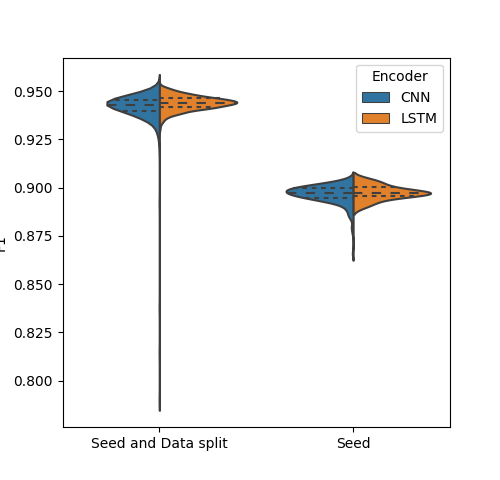
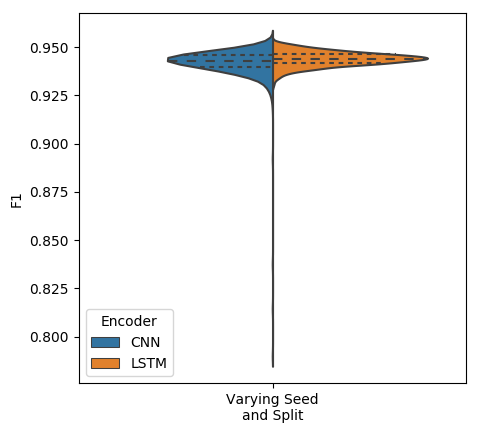
Removed official splits

Changed region(s): [[0.0, 0.06, 0.9061, 0.9908], [0.9645, 0.03, 0.9937, 0.06], [0.1461, 0.03, 0.1754, 0.06]]

diff --git a/violin_plot_of_ner_scores.py b/violin_plot_of_ner_scores.py
@@ -37,14 +37,10 @@ def parse_path(path_string: str) -> Path:
 
 if __name__ == '__main__':
     parser = argparse.ArgumentParser()
-    seeds_result_help = "File path to results where the models were trained "\
-                        "on different random seeds"
     data_seeds_result_help = "File path to results where the models were "\
                              "trained on different data splits and random seeds"
     no_data_splits_help = "Number of extra plots showing the affect of "\
                           "different random seeds but on the same dataset."
-    parser.add_argument("seeds_result_fp", help=seeds_result_help, 
-                        type=parse_path)
     parser.add_argument("data_seeds_result_fp", help=data_seeds_result_help,
                         type=parse_path)
     parser.add_argument("plot_fp", help="File path to the plot",
@@ -59,8 +55,7 @@ if __name__ == '__main__':
     args = parser.parse_args()
 
     encoders = ["CNN", "LSTM"]
-    training_methods_and_results = [('Seed and Data split', args.data_seeds_result_fp),
-                                    ('Seed', args.seeds_result_fp)]
+    training_methods_and_results = [('Varying Seed and Split', args.data_seeds_result_fp)]
     encoder_and_folder = product(encoders, training_methods_and_results)
 
     f1_scores = []
@@ -70,7 +65,7 @@ if __name__ == '__main__':
         train_method_name, result_fp = train_method_result
         with result_fp.open('r') as result_file:
             results = json.load(result_file)
-            if train_method_name == 'Seed and Data split':
+            if train_method_name == 'Varying Seed and Split':
                 f1_values = []
                 for result in results:
                     f1_values.extend(get_encoder_results(result, encoder, 
@@ -85,8 +80,8 @@ if __name__ == '__main__':
             for f1_value in f1_values:
                 f1_scores.append(f1_value)
                 encoder_names.append(encoder)
-                if train_method_name == 'Seed and Data split':
-                    training_method_names.append('Seed and\nData split')
+                if train_method_name == 'Varying Seed and Split':
+                    training_method_names.append('Varying Seed\nand Split')
                 else:
                     training_method_names.append(train_method_name)
             print(f'Number of results: {len(f1_values)} for encoder: {encoder}'
@@ -102,7 +97,7 @@ if __name__ == '__main__':
                     for f1_value in f1_values:
                         f1_scores.append(f1_value)
                         encoder_names.append(encoder)
-                        training_method_names.append(f'Fixed data\nsplit {i}')
+                        training_method_names.append(f'Varying Seed\nfixed split {i}')
                 
     all_data = pd.DataFrame({'F1': f1_scores, 'Encoder': encoder_names, 
                              'Training Method': training_method_names})
@@ -111,7 +106,7 @@ if __name__ == '__main__':
     plot_fp.touch()
 
     if args.no_data_splits > 0:
-        large_data_plot_names = ['Seed and\nData split', 'Seed']
+        large_data_plot_names = ['Varying Seed\nand Split']
         
         large_data = all_data[all_data['Training Method'].isin(large_data_plot_names)]
         small_data = all_data[~all_data['Training Method'].isin(large_data_plot_names)]
@@ -124,14 +119,15 @@ if __name__ == '__main__':
         axs[0].get_legend().remove()
         axs[1].set_xlabel("")
         axs[1].set_ylabel("")
-        fig.savefig(str(plot_fp.resolve()))
+        fig.set_figwidth(8.2)
+        fig.savefig(str(plot_fp.resolve()), bbox_inches='tight')
     else:
         ax = sns.violinplot(y="F1", x="Training Method", hue="Encoder",
                             data=all_data, inner="quartiles", split=True)
         ax.set_xlabel("")
         fig = ax.figure
         fig.set_figwidth(5)
-        fig.savefig(str(plot_fp.resolve()))
+        fig.savefig(str(plot_fp.resolve()), bbox_inches='tight')
 
 
 

diff --git a/README.md b/README.md
@@ -7,19 +7,6 @@ NOTE: This has only been tested on Ubuntu 16.04
 
 Need to download the CoNLL 2003 NER dataset and store it within `./original_dataset` where the train, dev, and test splits are at the following respective paths `./original_dataset/train.txt`, `./original_dataset/dev.txt`, `./original_dataset/test.txt`. NOTE: Ensure that all of the splits have been pre-processed so that they are in BIO format and not IOB format.
 
-## Results of the NER models on the normal train, validation, and test splits
-To run the NER models 250 times each for the CNN and LSTM models as done in the paper where the only difference between each run is a different random seed run:
-
-`./just_random_seeds.sh ./original_dataset PATH_TO_GLOVE_FILE 250 PATH_TO_TEMP_DIR PATH_TO_PYTHON_RUNNABLE`
-
-`PATH_TO_GLOVE_FILE` -- This is the path to the 100 dimension Glove file which can be downloaded from [here](http://nlp.stanford.edu/data/glove.6B.zip)
-`PATH_TO_TEMP_DIR` -- Can be any folder but most likely a folder from `/tmp` directory
-`PATH_TO_PYTHON_RUNNABLE` -- an example would be `/home/andrew/Envs/NER/bin/python`
-
-The 250 results should be found within the following file `./original_dataset/results.json`
-
-The results from our experiments can be found in `./results/ner_random_seeds.json`
-
 ## Results of the NER models on different train, validation, and test splits
 First we must create different train, validation, and test splits. To do this we create a different directory for each new random train, validation, and test split. In the paper we have 150 different random splits which is created using the following command:
 
@@ -31,23 +18,27 @@ After creating 150 new random datasets we run the 2 models 5 times using a diffe
 
 `./datasets_and_random_seeds.sh 0 150 ./copy PATH_TO_GLOVE_FILE PATH_TO_TEMP_DIR PATH_TO_PYTHON_RUNNABLE`
 
+`PATH_TO_GLOVE_FILE` -- This is the path to the 100 dimension Glove file which can be downloaded from [here](http://nlp.stanford.edu/data/glove.6B.zip)
+`PATH_TO_TEMP_DIR` -- Can be any folder but most likely a folder from `/tmp` directory
+`PATH_TO_PYTHON_RUNNABLE` -- an example would be `/home/andrew/Envs/NER/bin/python`
+
 The results from our experiments can be found in `./results/ner_dataset_and_random_seeds.json` of which this single results file can be genererated from all of the different dataset results files be using the following script:
 
 `python join_dataset_results.py ./copy ./results/ner_dataset_and_random_seeds.json`
 
 ## To create the visulisation from the paper
 
-The visulisation is saved in the `./image` directory, of which the violin plot showing the difference between the distribution of changing just the random seed and not the data split for the CNN and LSTM model compared to changing the random seed and data splits for the two models can be produced using the following command:
+The visulisation is saved in the `./image` directory, of which the violin plot showing the distribution of changing the random seed and the data split for the CNN and LSTM model can be produced using the following command:
 
-`python violin_plot_of_ner_scores.py ./results/ner_random_seeds.json ./results/ner_dataset_and_random_seeds.json ./image/ner_violin_plot.png test 0 --remove_bottom_5`
+`python violin_plot_of_ner_scores.py ./results/ner_dataset_and_random_seeds.json ./image/ner_violin_plot.png test 0 --remove_bottom_5`
 
 To get the exact plot in the paper which shows 3 additional violin plots for fixed data split but different random seed run the following command:
 
-`python violin_plot_of_ner_scores.py ./results/ner_random_seeds.json ./results/ner_dataset_and_random_seeds.json ./image/ner_violin_plot_with_fixed.png test 3 --remove_bottom_5`
+`python violin_plot_of_ner_scores.py ./results/ner_dataset_and_random_seeds.json ./image/ner_violin_plot_with_fixed.png test 3 --remove_bottom_5`
 
-The violin plot shows all the results but the bottom five results for each encoder on each of the result sets, this is due to some of the methods not converaging. To create the non removed plot run the following command:
+The violin plot shows all the results including the bottom five results for each encoder. The bottom 5 were removed as some of the methods did not converag. To create the non removed plot run the following command:
 
-`python violin_plot_of_ner_scores.py ./results/ner_random_seeds.json ./results/ner_dataset_and_random_seeds.json ./image/ner_violin_plot_bottom_5.png test 0`
+`python violin_plot_of_ner_scores.py ./results/ner_dataset_and_random_seeds.json ./image/ner_violin_plot_bottom_5.png test 0`
 
 ### Note to self
 A problem with the code is the following. Running the results for only seeds 250 times is bad as it runs out of space within the removal directory therefore it is better to run the code in multiples of 5 and removing the temporary directory each time and re-creating it.
